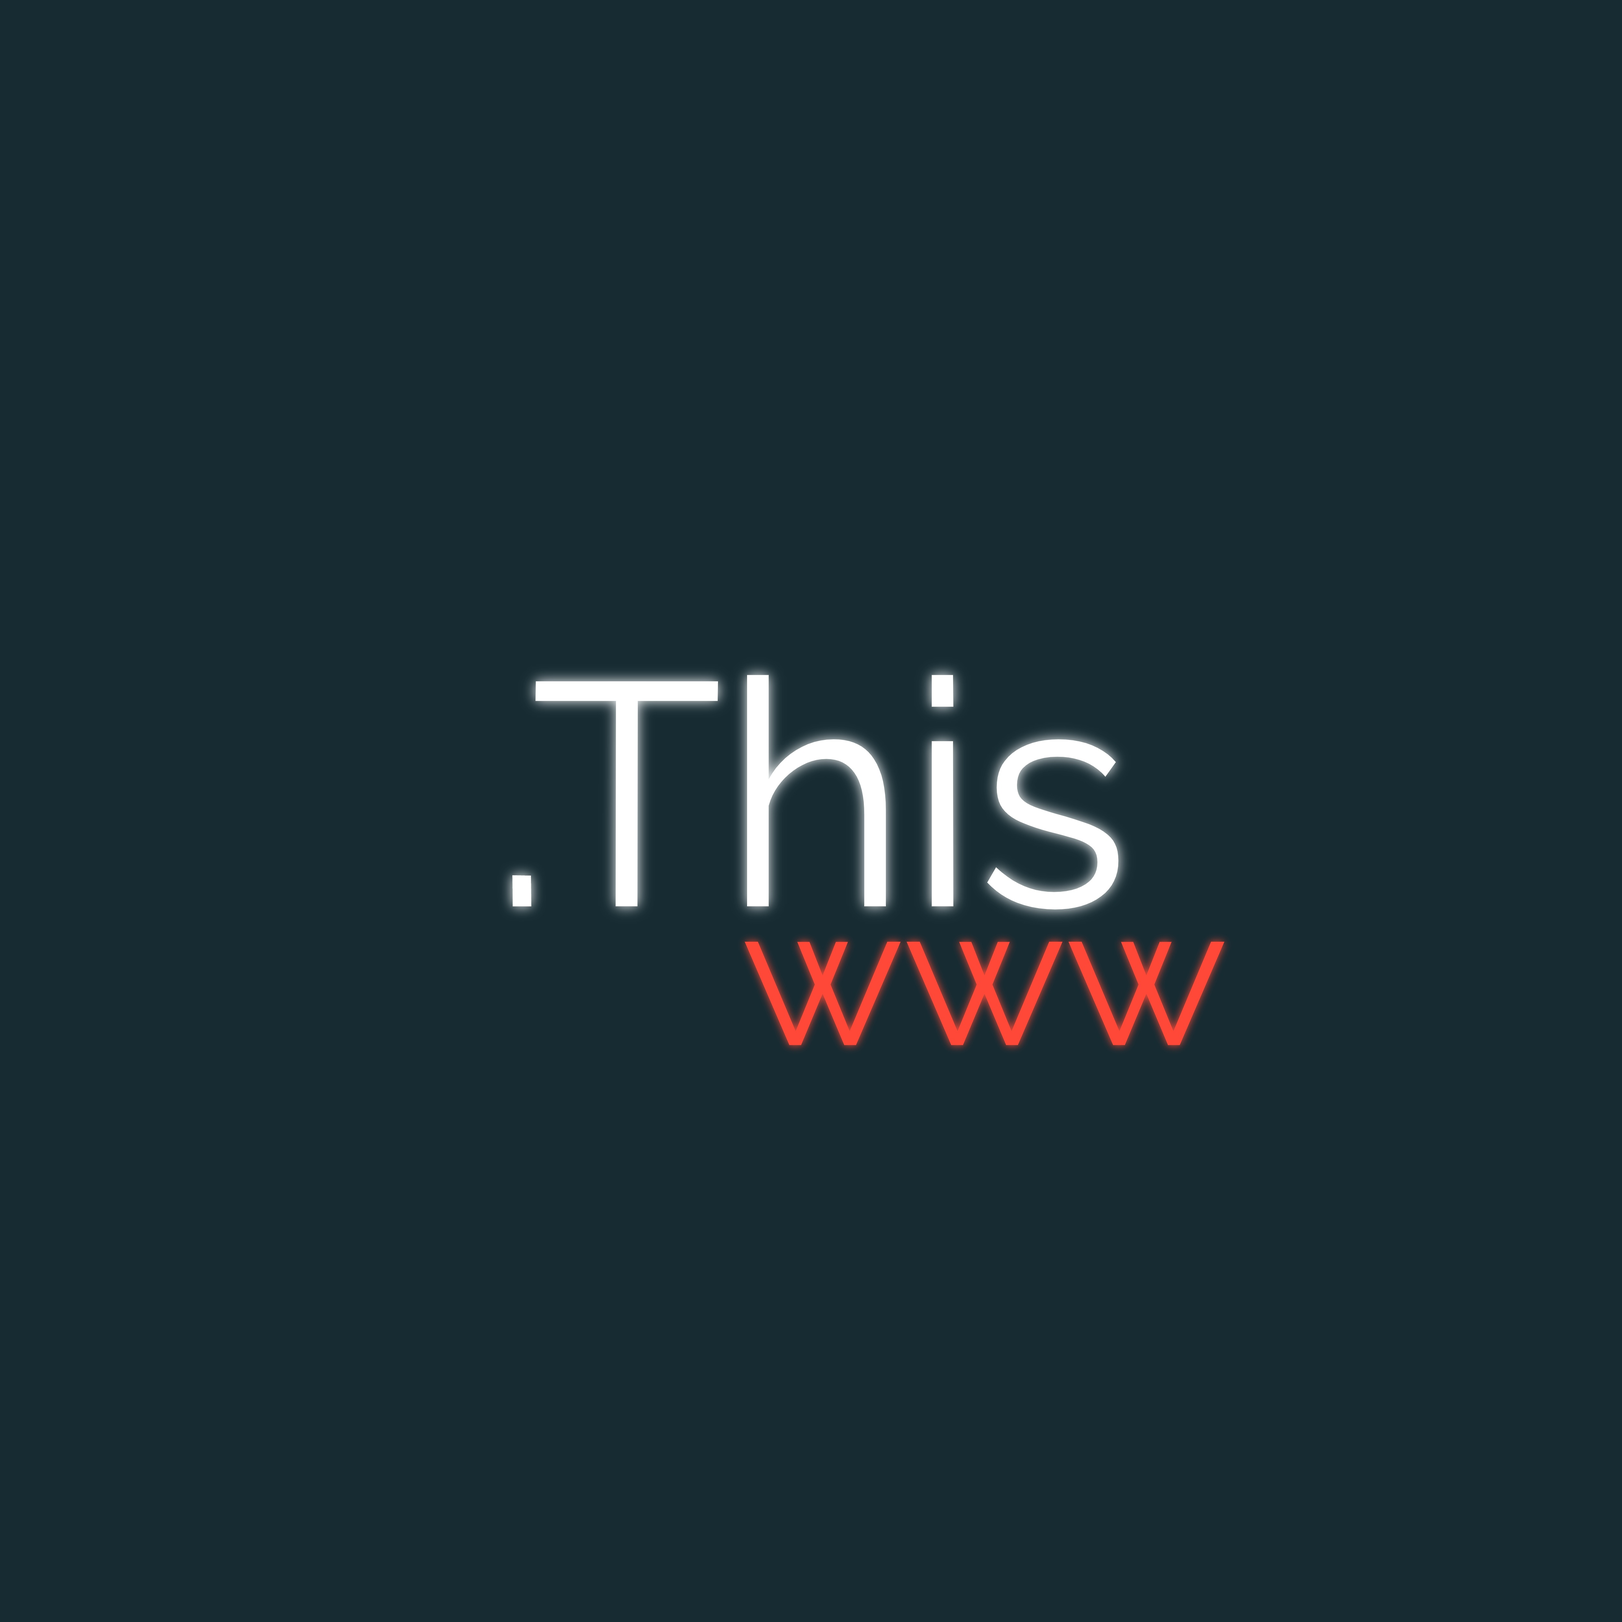
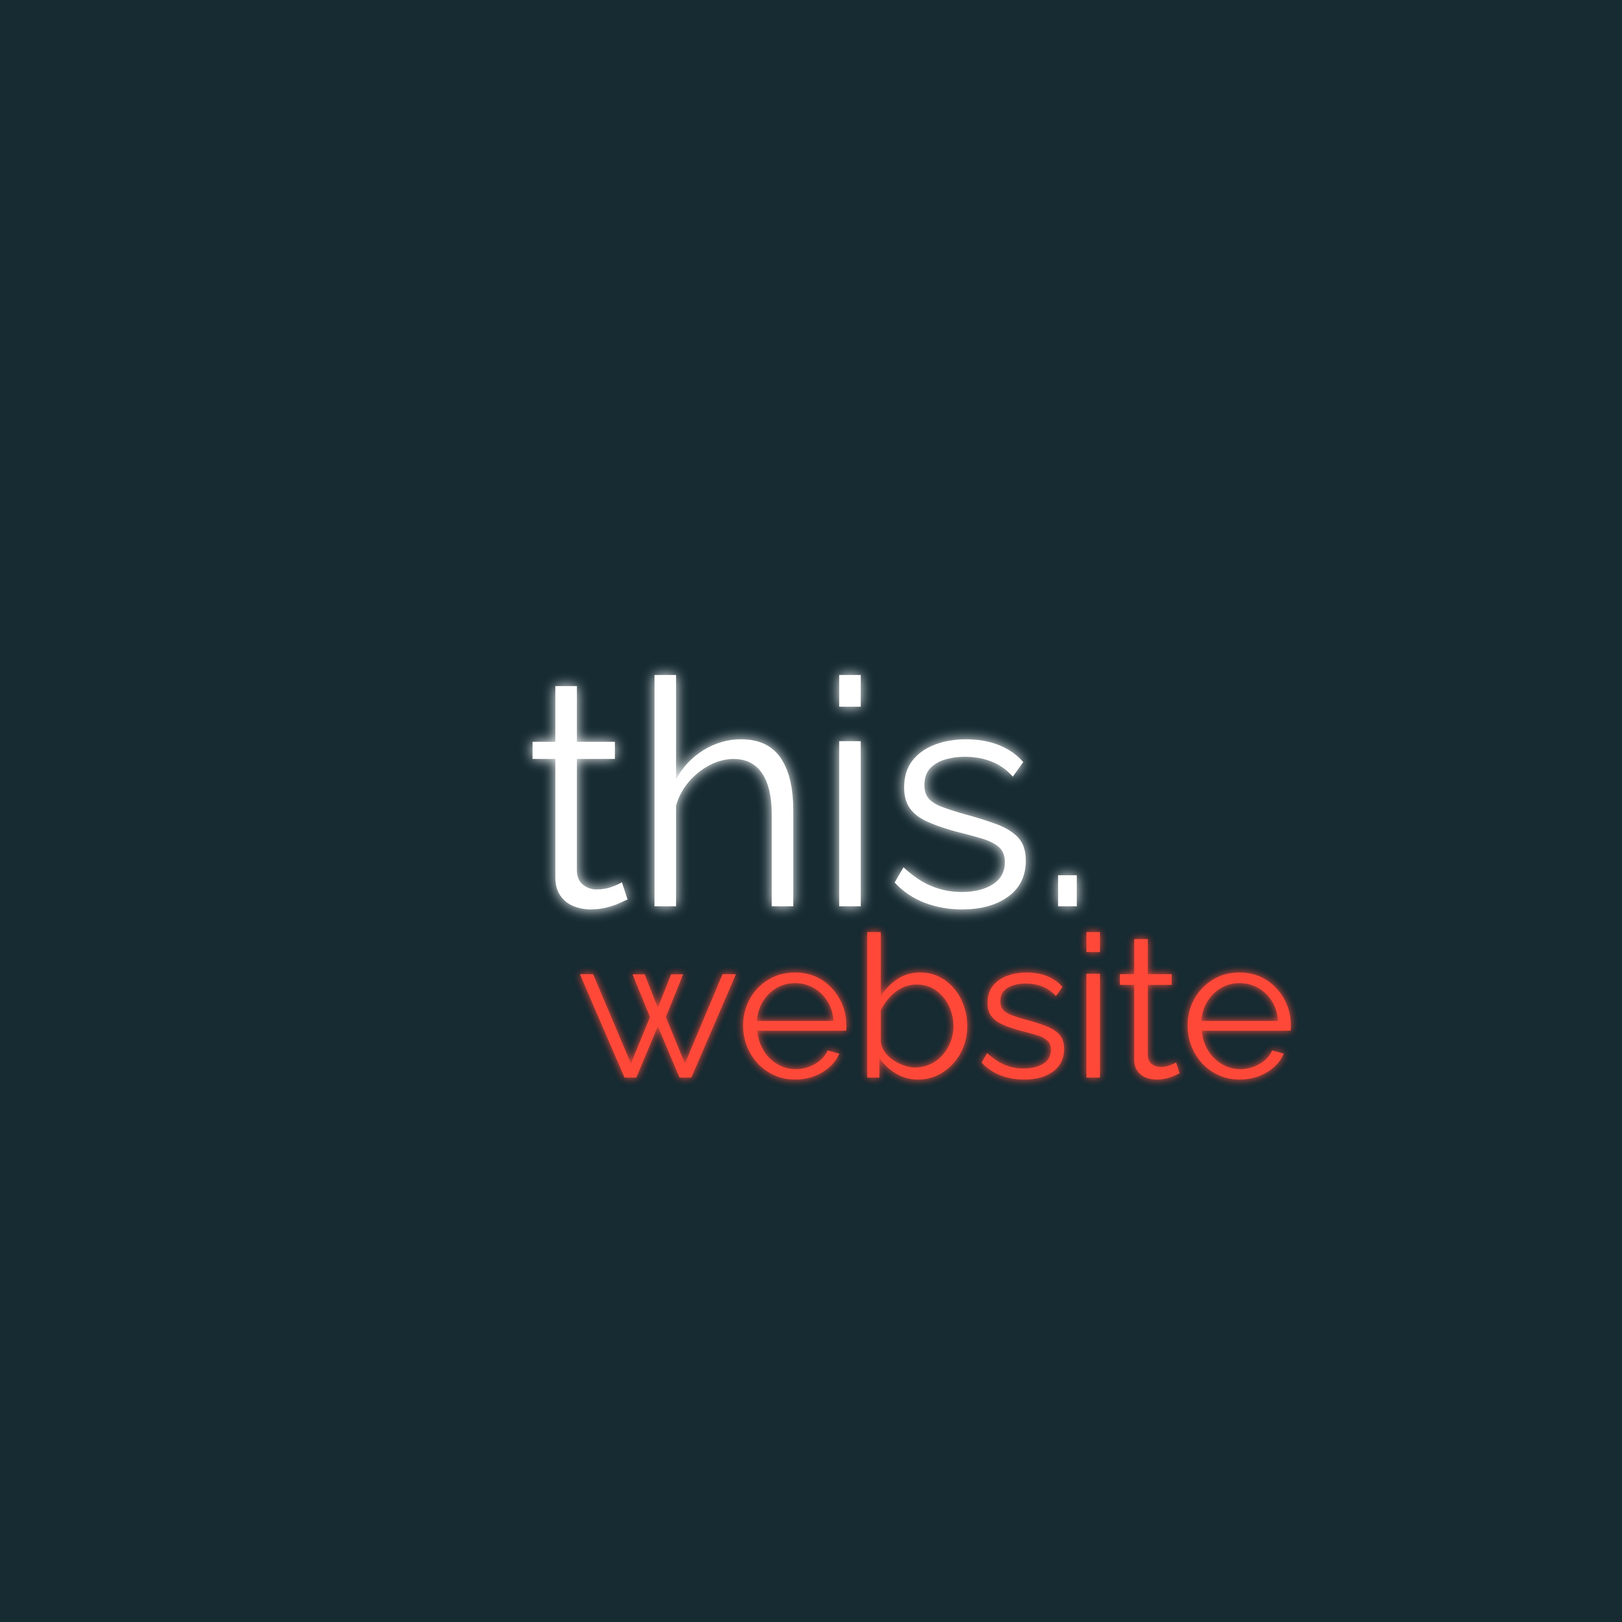
Test/04.08.2022

Changed region(s): [[0.312, 0.4056, 0.8112, 0.6864]]

diff --git a/css/style.css b/css/style.css
@@ -479,24 +479,25 @@ header {
 .wrapper{
     margin-left: auto;
     margin-right: auto; 
-    width: 90%; 
+    width: 95%; 
 }
 
 .welcome {
     position: absolute;
-    background-image: -webkit-linear-gradient(#006da8 0%, #55bbff 47%, #cafbff 50%, #fffd77 53%, #fac002 58%, #ffbb56 90%, #EC9B4E 100%);
+    background-image: -webkit-linear-gradient(#006da8 0%, #55bbff 47%, #cafbff 50%, #fffd77 53%, #fac002 58%, #ffbb56 90%, #ffc56d 100%);
     -webkit-background-clip: text;
     -webkit-text-fill-color: transparent;
-    -webkit-text-stroke: 1px #000000;
-    font-size: 5rem;
+    -webkit-text-stroke: 0.3px #000000;
+    font-size: 3.70rem;
     font-family: 'Titillium Web', sans-serif;
     font-style: bold;
     margin-top: -60px;
     margin-left: 10px;
+    -webkit-filter: drop-shadow(2px 2px 4px #ffffff);
   }
   
   .welcome:before {
-    content: 'Portfolio';
+    content: 'My Portfolio';
     position: absolute;
     z-index: 0;
     background-image: -webkit-linear-gradient(-30deg, transparent 0%, transparent 40%, rgb(255, 255, 255) 50%, transparent 60%, transparent 100%);
@@ -513,17 +514,18 @@ header {
   .dreams {
     position: relative;
     font-family: 'Mr Dafoe', cursive;
-    font-size: 2.5rem;
+    font-size: 2.6rem;
     color: rgb(255, 0, 0) ;
-    transform:rotate(-10deg);
-    -ms-transform:rotate(-10deg);
-    -webkit-transform:rotate(-10deg);
+    transform:rotate(-7deg);
+    -ms-transform:rotate(-7deg);
+    -webkit-transform:rotate(-7deg);
     margin-left: 160px;
     margin-top: 0px;
     margin-bottom: 20px;
     -webkit-text-stroke: 0.25px #000000;
-    -webkit-filter: drop-shadow(6px 2px 10px #da0000);
+    -webkit-filter: drop-shadow(5px 1.75px 8px #da0000);
     z-index: 20;
+    letter-spacing: 0.065em;
   }
   
   .windows .dreams {
@@ -562,4 +564,74 @@ header {
     margin: 0.5em auto 1em;
     background: var(--clr-accent);
     opacity: 0.25;
+}
+
+.contact-form-text textarea{
+    margin: auto;
+    width: 75%;
+    height: 200px;
+    background-image: linear-gradient(120deg,var(--clr-darker),var(--clr-accent));
+    color: #000000;
+}
+
+.contact-form-email input {
+    margin: auto;
+    width: 220px;
+    background-image: linear-gradient(120deg,var(--clr-darker),var(--clr-accent));
+    color: #000000;
+}
+
+::placeholder {
+    color: #000000;
+}
+
+/*
+.contact-form-button button:before {
+    background: #000;
+    border-radius: inherit;
+    bottom: 0;
+    -webkit-box-shadow: 0 0.5em 1.25em #000;
+    box-shadow: 0 0.5em 1.25em rgb(0, 29, 196);
+    content: "";
+    left: 0;
+    opacity: 0;
+    position: absolute;
+    font-weight: var(--fw-bold);
+    right: 0;
+    top: 0;
+    -webkit-transition: opacity .2s ease;
+    transition: opacity .2s ease;
+    z-index: -1;
+}
+*/
+/*
+.contact-form-button button[data-reverse=true] {
+    background-color: var(--clr-darker);
+    color: var(--clr-darker);
+}
+*/
+
+.contact-form-button button {
+    --font-weight: 500;
+    background-color: var(--clr-accent);
+    font-weight: var(--fw-bold);
+    border: 0;
+    border-radius: 100vw;
+    -webkit-box-shadow: 0.1em 0.1em 0.1em rgba(0, 29, 196, 0.856);
+    box-shadow: 0.1em 0.1em 0.1em rgb(0, 29, 196);
+    color: #000000;
+    cursor: pointer;
+    display: inline-block;
+    font-size: var(--fs-body);
+    letter-spacing: .04em;
+    line-height: 1;
+    padding: 0.5em 2em 0.5em;
+    position: relative;
+    text-decoration: none;
+    -webkit-transform: scale(1);
+    transform: scale(1);
+    -webkit-transition: -webkit-transform .2s ease;
+    transition: -webkit-transform .2s ease;
+    transition: transform .2s ease;
+    transition: transform .2s ease,-webkit-transform .2s ease;
 }

diff --git a/portfolio-item4.html b/portfolio-item4.html
@@ -31,25 +31,20 @@
         <!-- About me -->
         <section class="about-me" id="about">
 
-            <h2 class="section__title section__title--about">Murex</h2>
-            <p class="section__subtitle section__subtitle--about"><strong>Selection of my accomplishments in Risk area</strong></p>
+            <h2 class="section__title section__title--about">My Murex experience</h2>
+            <p class="section__subtitle section__subtitle--about"><strong>Murex areas I'm familiar with</strong></p>
             
-            <img src="img/wordcloud2.jpg" alt="" class="about-me__img">
+            <img src="img/MurexOther.jpg" alt="" class="about-me__img">
 
             <div class="about-me__body">
-                <p> I have several years of experience working with Murex system.
-                <p> Currently, I've been participating in Murex MX2000 to MX3.5x upgrade project for one of major banks, where I'm solely responsible for delivery of market risk <area shape="" coords="" href="" alt="" class="">
-                <p>The system area which I know particularly well both from technical and functional perspective is market risk. I'm able to solely deliver or provide technical support to areas such as:
-                    <li>VaR and stress-testing (historical full revaluation and Taylor expansion)</li>
-                    <li>FRTB (Standarized Approach)</li>
-                    <li>Market risk limits (including limit validation and excess workflow management)</li>
-                    <li>Backtesting</li>
-                    <li>Performance attribution</li>
-                <p>I have also particular specialisation in credit risk module, in particular I'm able to deliver build or provide support to below areas:</p>
-                    <li>xVA</li>
-                    <li>MLC</li>
-                    <li>BIMM</li>
-                    <li>SA-CCR</li>
+                <p> I've particular knowledge in not only Risk area in Murex, but also other areas, front office and reporting in particular. Please find below the description of some of areas I've been working with:
+                 <p>
+                    <li><b>Front office sensitivities</b>- use/validation/customization of par/zero coupon sensitivities for the purpose of later use in market risk</li>
+                    <li><b>Datamart reporting</b> - creation of tens of views and extractions, different types of datamart tables and creation of items such as dynamic charts linked to views</li>
+                    <li><b>Stored procedures</b> - with the use of PL&SQL (using records, collections, loops and DML operations), I have created ie, procedure that iterates through the input set for n dates and that provides the users with the worst output, the output being the sum of outputs for dates 1:n [1:1, 1:2 etc.])</li>
+                    <li><b>Front office model validation</b> - recalculation of pricing of all products outside of Murex and comparing the results)
+                    <li><b>Back-office paper confirmations</b> - creation of a number of templates and formulas for different investment products</li>
+                    <li><b>Management of market data and pricing models</b> - ie, management of bond pricing models and spreads, credit spread curves, use of smile surfaces of type SABR</li>     
             </div>
         
          </section>

diff --git a/index.html b/index.html
@@ -3,7 +3,7 @@
     <head>
         <meta charset="UTF-8">
         <meta name="viewport" content="width=device-width, initial-scale=1.0">
-        <title>Aleksander Herc portfolio website</title>
+        <title>Aleksander Herc | portfolio website</title>
         <link rel="stylesheet" href="https://cdnjs.cloudflare.com/ajax/libs/normalize/7.0.0/normalize.min.css">
         <link rel="stylesheet" href="https://cdnjs.cloudflare.com/ajax/libs/font-awesome/5.11.2/css/all.css" 
         integrity="sha256-46qynGAkLSFpVbEBog43gvNhfrOj+BmwXdxFgVK/Kvc=" crossorigin="anonymous" />  
@@ -32,7 +32,7 @@
 
         <section class="intro" id="home">
             <div id="wrapper">
-                <h2 class="welcome">Portfolio</h2>
+                <h2 class="welcome">My Portfolio</h2>
                 <h3 class="dreams">Aleksander Herc</h3>
             </div>
             <!--<p class="section__subtitle section__subtitle--intro">
@@ -88,7 +88,9 @@
         <section class="about-me" id="about">
             <h2 class="section__title section__title--about">Who I am</h2>
             <p class="section__subtitle section__subtitle--about"><strong>IT professional based out of Poland</strong></p>
-            
+
+            <img src="img/foto.jpg" alt="" class="about-me__img">
+
             <div class="about-me__body">
                 <p> I am happy to meet you.
                 <p> I have graduated from Warsaw School of Economics on the course of Quantitative methods in IT and specialization of Big Data. After finishing the studies I had great opportunity to become certified CFA Charterholder and licenced stock broker with rights to investment advisory.
@@ -96,7 +98,6 @@
                    I also have technology aptitude and programming skills and I'm delighted to show you details of my experience in the <strong>My experience</strong> section below.</a></p>
             </div>
             
-            <img src="img/foto.jpg" alt="Jane leaning against a bus" class="about-me__img">
          </section>
      
         <!-- My Work -->
@@ -109,17 +110,21 @@
                  <img src="img/wordcloud2.jpg" alt="" class="portfolio__img">
              </a>
              
-             <a href="portfolio-item.html" class="portfolio__item">
+             <a href="portfolio-item1.html" class="portfolio__item">
                  <img src="img/ThisWWW.jpg" alt="" class="portfolio__img">
              </a>
              
-             <a href="#" class="portfolio__item">
+             <a href="portfolio-item2.html" class="portfolio__item">
                  <img src="img/ProgrammingLanguages.jpg" alt="" class="portfolio__img">
              </a>
              
-             <a href="#" class="portfolio__item">
+             <a href="portfolio-item3.html" class="portfolio__item">
                  <img src="img/BigData.jpg" alt="" class="portfolio__img">
              </a>
+
+             <a href="portfolio-item4.html" class="portfolio__item">
+                <img src="img/MurexOther.jpg" alt="" class="portfolio__img">
+            </a>
             
          </div>
      </section>

diff --git a/portfolio-item1.html b/portfolio-item1.html
@@ -31,32 +31,22 @@
         <!-- About me -->
         <section class="about-me" id="about">
 
-            <h2 class="section__title section__title--about">Murex</h2>
-            <p class="section__subtitle section__subtitle--about"><strong>Selection of my accomplishments in Risk area</strong></p>
+            <h2 class="section__title section__title--about">My portfolio website</h2>
+            <p class="section__subtitle section__subtitle--about"><strong>How this webiste has been constructed</strong></p>
             
-            <img src="img/wordcloud2.jpg" alt="" class="about-me__img">
+            <img src="img/ThisWWW.jpg" alt="" class="about-me__img">
 
             <div class="about-me__body">
-                <p> I have several years of experience working with Murex system.
-                <p> Currently, I've been participating in Murex MX2000 to MX3.5x upgrade project for one of major banks, where I'm solely responsible for delivery of market risk <area shape="" coords="" href="" alt="" class="">
-                <p>The system area which I know particularly well both from technical and functional perspective is market risk. I'm able to solely deliver or provide technical support to areas such as:
-                    <li>VaR and stress-testing (historical full revaluation and Taylor expansion)</li>
-                    <li>FRTB (Standarized Approach)</li>
-                    <li>Market risk limits (including limit validation and excess workflow management)</li>
-                    <li>Backtesting</li>
-                    <li>Performance attribution</li>
-                <p>I have also particular specialisation in credit risk module, in particular I'm able to deliver build or provide support to below areas:</p>
-                    <li>xVA</li>
-                    <li>MLC</li>
-                    <li>BIMM</li>
-                    <li>SA-CCR</li>
+                <p> I've created this website in HTML using CSS formatting, with slight support of Javascript. 
+                <p> I shared project of this website on my Github profile, you can find it using this <a href="href="https://github.com/aleksanderDevPL">link</a>:
+                <p> Currently, I've been developing this site using only React and I can't wait to share the output with you once it's finished. 
             </div>
         
          </section>
        
         <div class="contact-form">
+            <p class="Abc">Please fill in below form in case you have any questions, I will respond:</p>
             <form action="https://formsubmit.co/aleksander.herc@wp.pl" method="POST">
-                <p class="Abc">Please fill in below form in case you have any questions, I will respond:</p>
                 <div class="contact-form-text">
                     <textarea id="email-message" name="email-message" placeholder="Enter your message"></textarea>
                     <br><br>

diff --git a/portfolio-item2.html b/portfolio-item2.html
@@ -31,25 +31,18 @@
         <!-- About me -->
         <section class="about-me" id="about">
 
-            <h2 class="section__title section__title--about">Murex</h2>
-            <p class="section__subtitle section__subtitle--about"><strong>Selection of my accomplishments in Risk area</strong></p>
+            <h2 class="section__title section__title--about">Programming experience</h2>
+            <p class="section__subtitle section__subtitle--about"><strong>My programming experience</strong></p>
             
-            <img src="img/wordcloud2.jpg" alt="" class="about-me__img">
+            <img src="img/ProgrammingLanguages.jpg" alt="" class="about-me__img">
 
             <div class="about-me__body">
-                <p> I have several years of experience working with Murex system.
-                <p> Currently, I've been participating in Murex MX2000 to MX3.5x upgrade project for one of major banks, where I'm solely responsible for delivery of market risk <area shape="" coords="" href="" alt="" class="">
-                <p>The system area which I know particularly well both from technical and functional perspective is market risk. I'm able to solely deliver or provide technical support to areas such as:
-                    <li>VaR and stress-testing (historical full revaluation and Taylor expansion)</li>
-                    <li>FRTB (Standarized Approach)</li>
-                    <li>Market risk limits (including limit validation and excess workflow management)</li>
-                    <li>Backtesting</li>
-                    <li>Performance attribution</li>
-                <p>I have also particular specialisation in credit risk module, in particular I'm able to deliver build or provide support to below areas:</p>
-                    <li>xVA</li>
-                    <li>MLC</li>
-                    <li>BIMM</li>
-                    <li>SA-CCR</li>
+                <p> To achieve my goals I have been using several programming languages, from which I have special interest in below ones:
+                    <li>R - which I find particularly useful for financial, statistical or machine learning area</li>
+                    <li>Javascript, CSS, React - which I use to create websites</li>
+                    <li>PL&SQL - this extension to SQL allows me to better use possibilities at the database level</li>
+                    <li>Java - a must have, which I use for most of general ideas, sometimes in cooperation with other languages mentioned above</li>
+                <p> Please be invited to follow my Github profile where I have been sharing ideas with you.
             </div>
         
          </section>

diff --git a/portfolio-item3.html b/portfolio-item3.html
@@ -31,25 +31,16 @@
         <!-- About me -->
         <section class="about-me" id="about">
 
-            <h2 class="section__title section__title--about">Murex</h2>
-            <p class="section__subtitle section__subtitle--about"><strong>Selection of my accomplishments in Risk area</strong></p>
+            <h2 class="section__title section__title--about">Big data analysis</h2>
+            <p class="section__subtitle section__subtitle--about"><strong>My data science experience</strong></p>
             
-            <img src="img/wordcloud2.jpg" alt="" class="about-me__img">
+            <img src="img/BigData.jpg" alt="" class="about-me__img">
 
             <div class="about-me__body">
-                <p> I have several years of experience working with Murex system.
-                <p> Currently, I've been participating in Murex MX2000 to MX3.5x upgrade project for one of major banks, where I'm solely responsible for delivery of market risk <area shape="" coords="" href="" alt="" class="">
-                <p>The system area which I know particularly well both from technical and functional perspective is market risk. I'm able to solely deliver or provide technical support to areas such as:
-                    <li>VaR and stress-testing (historical full revaluation and Taylor expansion)</li>
-                    <li>FRTB (Standarized Approach)</li>
-                    <li>Market risk limits (including limit validation and excess workflow management)</li>
-                    <li>Backtesting</li>
-                    <li>Performance attribution</li>
-                <p>I have also particular specialisation in credit risk module, in particular I'm able to deliver build or provide support to below areas:</p>
-                    <li>xVA</li>
-                    <li>MLC</li>
-                    <li>BIMM</li>
-                    <li>SA-CCR</li>
+                <p>I've several years of experience in data science, starting from university faculty, where I've finished Big Data specialization.
+                <p>I've been doing statistical modelling using SAS and Stata (ie, linear and log regressions, event history analysis, cluster analysis, data imputations).
+                <p>I've also been creating machine learning models, web scrapping and more, mostly using RStudio.
+                <p>Please follow my Github profile, where I've been sharing some of my projects with you.    
             </div>
         
          </section>
